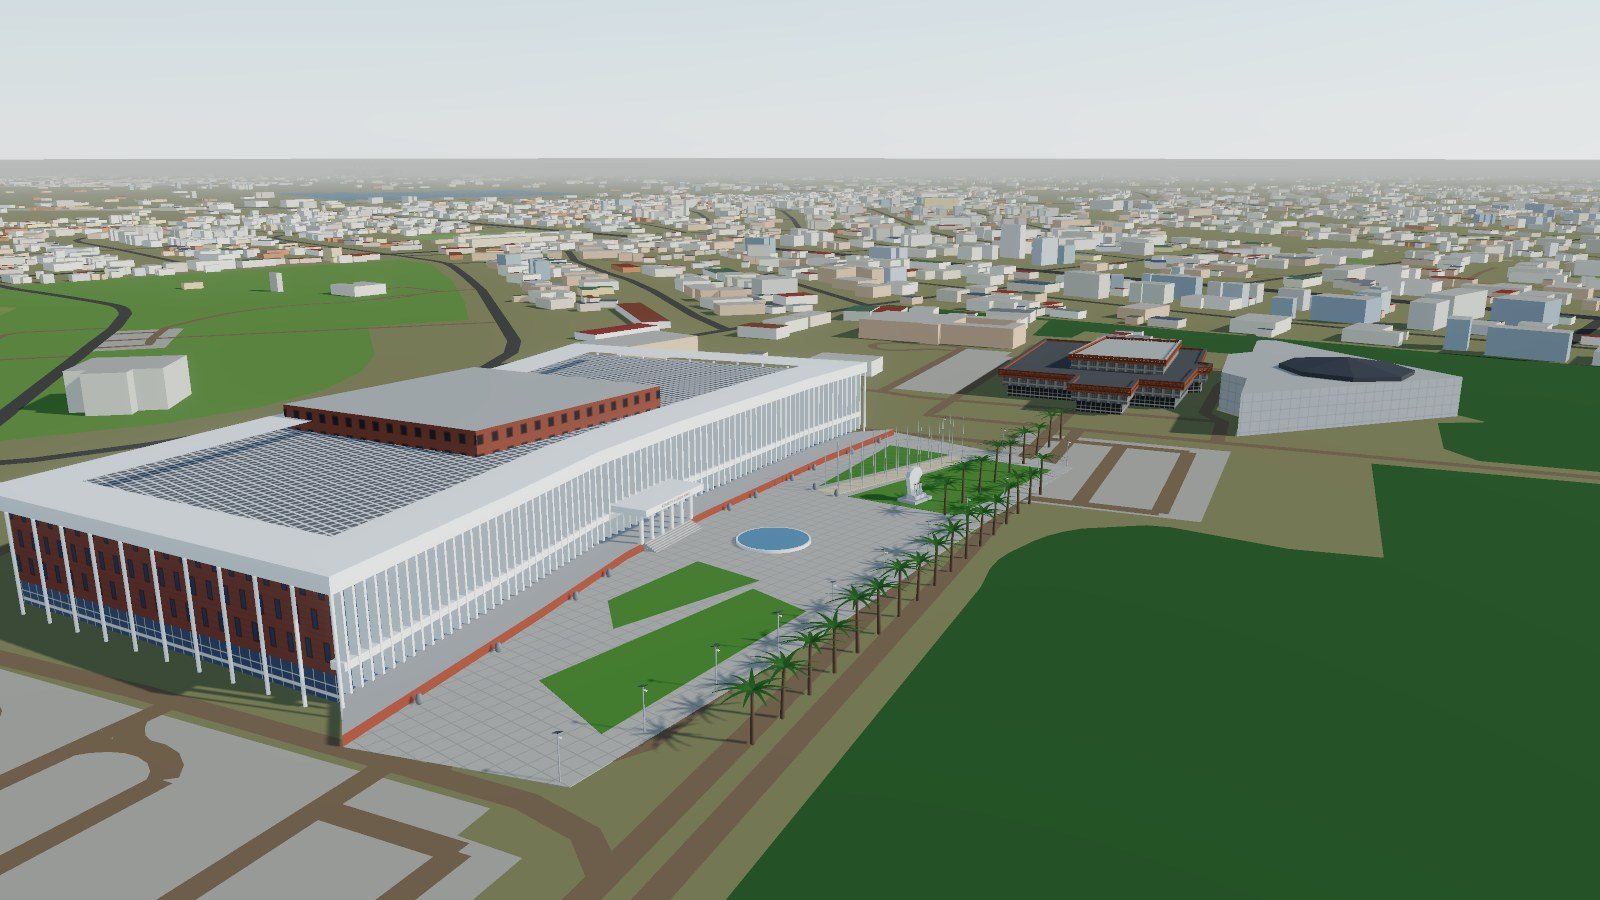
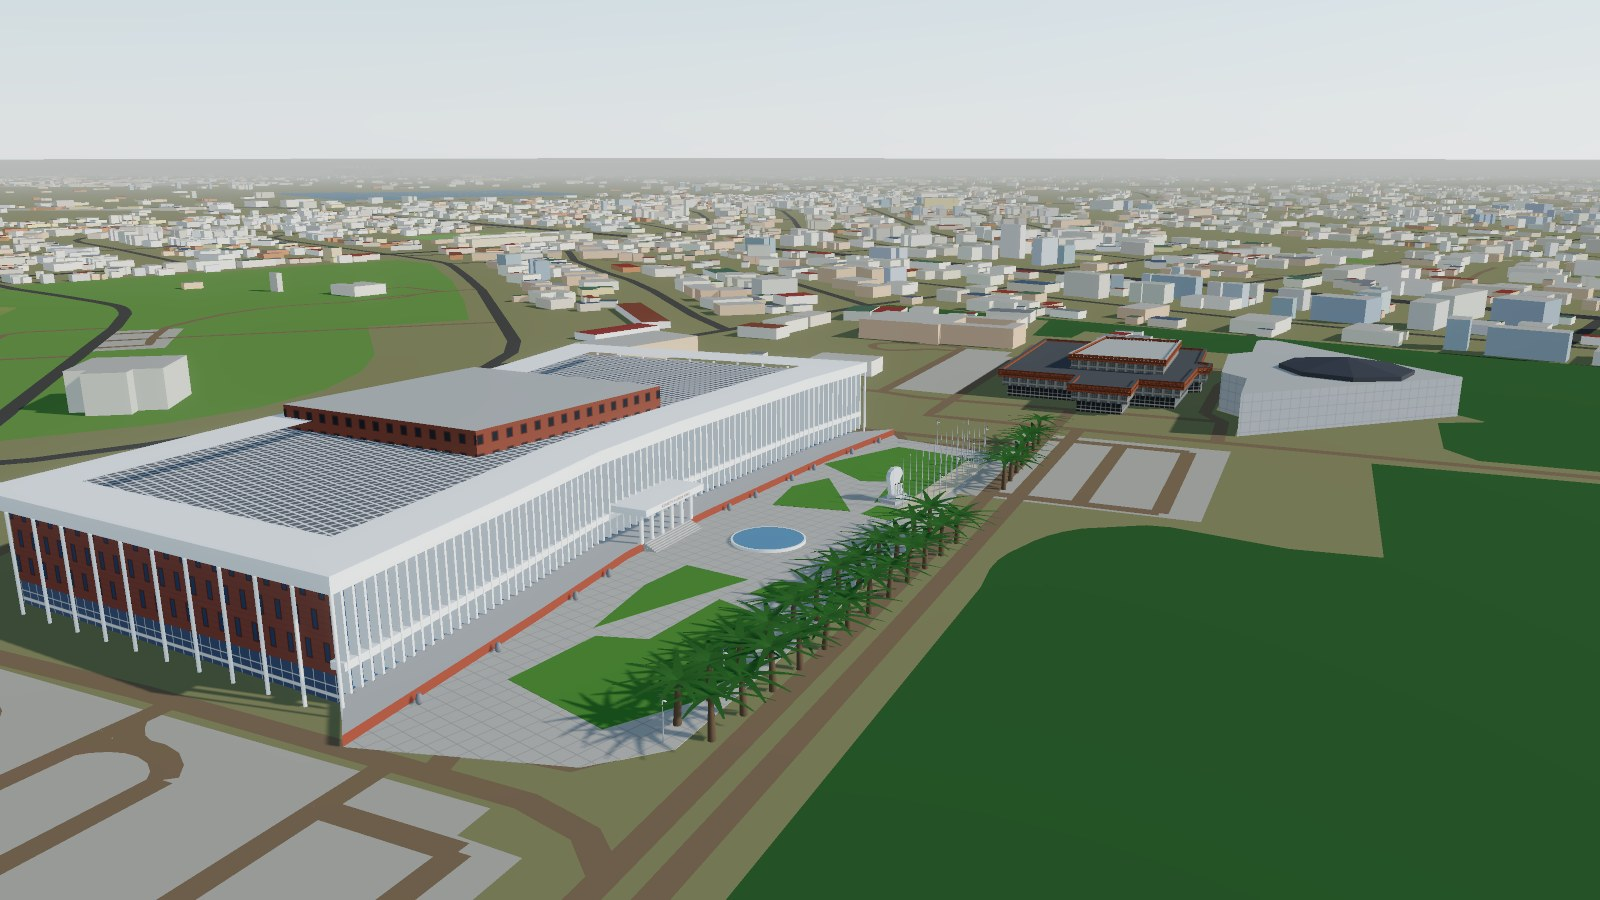
Mulungushi yard: trace the paving, lawns, flag walk and palms from the aerial
Stop the paving at the drives and roads around the yard instead of covering
them, redraw the seven lawns, move the flag walk and statue to the striped
walk by the drive, and plant the date palms where they stand: along the north
parking drive and in a double avenue on the east path.

Changed region(s): [[0.25, 0.4667, 0.6562, 0.8711], [0.2188, 0.8089, 0.25, 0.84]]

diff --git a/src/landmarks/mulungushi.js b/src/landmarks/mulungushi.js
@@ -195,17 +195,24 @@ function ring(outer, inner, y0, y1, mats) {
 // From the aerial and the founder's photos: a paved plaza with a round basin,
 // lawn panels, the African Union statue, a double row of steel flagpoles,
 // big grey urns, solar street lights and two avenues of palms.
-const PLAZA_EAST = [[528, -24], [520, -90], [509, -150], [500, -212], [440, -214]];
+// All traced from the aerial at 0.29 m/px. The paving stops at the drives and
+// roads around the yard (the tiles draw those), and covers the OSM footpaths
+// inside it.
+const YARD_EAST = [[525, -28], [531, -40], [502, -142], [500, -146], [476, -211], [446, -208]];
 const LAWNS = [
-  [[449, -200], [468, -202], [461, -154]],
-  [[476, -203], [497, -206], [500, -156], [472, -152]],
-  [[478, -96], [495, -96], [492, -62], [481, -70]],
-  [[497, -92], [512, -90], [520, -36], [499, -41]],
+  [[452, -200], [468, -202], [472, -170], [466, -165], [448, -172]],
+  [[468, -202], [476, -202], [486, -162], [480, -152], [472, -170]],
+  [[458, -162], [480, -143], [463, -135], [456, -150]],
+  [[482, -151], [491, -152], [491, -143], [483, -143]],
+  [[478, -93], [493, -95], [489, -60], [480, -80]],
+  [[498, -99], [507, -99], [507, -90], [498, -90]],
+  [[496, -84], [512, -83], [523, -53], [519, -37], [495, -38], [492, -58], [500, -63]],
 ];
-const BASIN = { x: 481, z: -115.5, r: 8 };
-const STATUE = { x: 486, z: -160, face: Math.PI / 2 }; // faces east, over the plaza
-const FLAGS = [[466, -151], [472, -201]]; // walkway between the north lawns
-const PALM_ROWS = [[[506, -184], [538, -48], 9], [[482, -238], [498, -155], 10]];
+const BASIN = { x: 480, z: -115, r: 8 };
+const STATUE = { x: 482.5, z: -157, face: Math.PI / 2 }; // faces east, down the flag walk
+const FLAGS = [[478, -200], [490, -152]]; // the striped walk between the north lawns and the drive
+// palms: along the north parking drive, and a double avenue on the east path
+const PALM_ROWS = [[[480, -229], [497, -182], 9], [[504, -140], [526, -45], 9], [[511, -140], [533, -45], 9]];
 
 function flatSlab(pts, y, thick, mat) {
   const m = extrudeFootprint(pts, [], thick, [mat, mat]);
@@ -233,7 +240,7 @@ function buildYard(podiumEdge) {
   // plaza and lawns (thin slabs just above the city ground)
   const plaza = [];
   for (let i = KK_FRONT[0]; i <= KK_FRONT[1]; i++) plaza.push(podiumEdge[i]);
-  const slabPlaza = flatSlab([...plaza, ...PLAZA_EAST], 0, 0.08, pave); // podium edge N->S, then back north
+  const slabPlaza = flatSlab([...plaza, ...YARD_EAST], 0, 0.08, pave); // podium edge N->S, then back north
   slabPlaza.userData.cast = false;
   put(slabPlaza, 'med');
   for (const l of LAWNS) {
@@ -325,12 +332,12 @@ function buildYard(podiumEdge) {
   urns.forEach(([x, z], i) => urnMesh.setMatrixAt(i, m4.makeTranslation(x, CITY_Y + 0.08, z)));
   put(urnMesh, 'med');
 
-  // solar street lights along the plaza's east edge
+  // solar street lights along the yard's east edge, just inside the paving
   const lightPts = [];
-  for (let i = 0; i < PLAZA_EAST.length - 1; i++) {
-    const [a, b] = [PLAZA_EAST[i], PLAZA_EAST[i + 1]];
+  for (let i = 1; i < YARD_EAST.length - 1; i++) {
+    const [a, b] = [YARD_EAST[i], YARD_EAST[i + 1]];
     const n = Math.round(Math.hypot(b[0] - a[0], b[1] - a[1]) / 18);
-    for (let j = 0; j < n; j++) lightPts.push([a[0] + ((b[0] - a[0]) * j) / n - 2, a[1] + ((b[1] - a[1]) * j) / n]);
+    for (let j = 0; j < n; j++) lightPts.push([a[0] + ((b[0] - a[0]) * j) / n - 2.5, a[1] + ((b[1] - a[1]) * j) / n]);
   }
   const lampPole = new THREE.CylinderGeometry(0.08, 0.12, 7, 8);
   const panelGeo = new THREE.BoxGeometry(1.4, 0.06, 0.8);
@@ -355,7 +362,9 @@ function buildYard(podiumEdge) {
   for (const [a, b, gap] of PALM_ROWS) {
     const n = Math.round(Math.hypot(b[0] - a[0], b[1] - a[1]) / gap);
     for (let i = 0; i <= n; i++) {
-      const p = make(7 + r() * 2.5, r);
+      // date palms: stout trunks, broad crowns
+      const p = make(5.5 + r() * 2, r);
+      p.scale.set(1.7, 1, 1.7);
       p.position.set(a[0] + ((b[0] - a[0]) * i) / n, CITY_Y, a[1] + ((b[1] - a[1]) * i) / n);
       put(p, 'med');
     }

diff --git a/docs/landmarks/mulungushi.md b/docs/landmarks/mulungushi.md
@@ -40,7 +40,7 @@ Model: `src/landmarks/mulungushi.js`.
 | KK Wing: plan | traced from the aerial: a curved east front ~200 m long, north and south wings, a ~58 m square central block | high |
 | KK Wing: form | 19.5 m to the white roof frame (2.6 m deep, 3.5 m overhang, ~12 m wide); curved front of white fins 2.4 m apart, 1.6 m deep, over sky-blue glass, with a white band across them at 7 m; ends and back in terracotta panels with deep windows staggered floor to floor over a glazed ground floor, slender white columns under the frame at both ends; terracotta central block to 25 m | high form (photos), medium heights |
 | KK Wing: front | granite podium 1.8 m high and 9 m deep with red walls; six broad steps at the entrance; canopy with "KENNETH KAUNDA WING" on round white columns | high form, medium sizes |
-| Yard | paved plaza with a round basin (16 m); four lawn panels; the African Union statue (Africa slab and three figures on a stepped plinth) at the north edge of the plaza facing east; 24 steel flagpoles in two rows along the walkway north of it; grey urns along the podium; solar street lights; palm avenues along the east road and by the north car park | layout medium (aerial), statue low (proportions from photos) |
+| Yard | traced from the aerial: paving from the podium to the east drive and the roads north and south (the OSM footpaths inside it are covered, the drives around it left clear); seven lawn panels; a 16 m round basin; the African Union statue (Africa slab and three figures on a stepped plinth) at the south end of the flag walk, facing east; 24 steel flagpoles in two rows on the striped walk between the north lawns and the drive; grey urns along the podium; solar street lights along the east edge; date palms along the north parking drive and a double avenue along the east path | layout high (aerial), statue low (proportions from photos) |
 
 ## Known gaps
 
